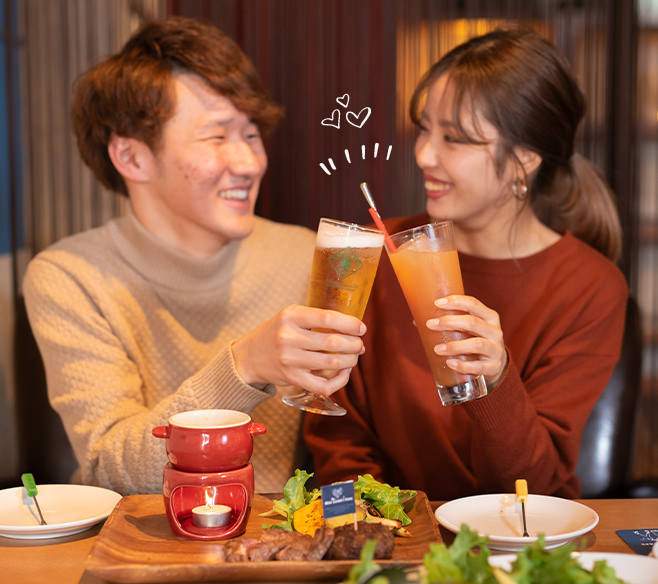
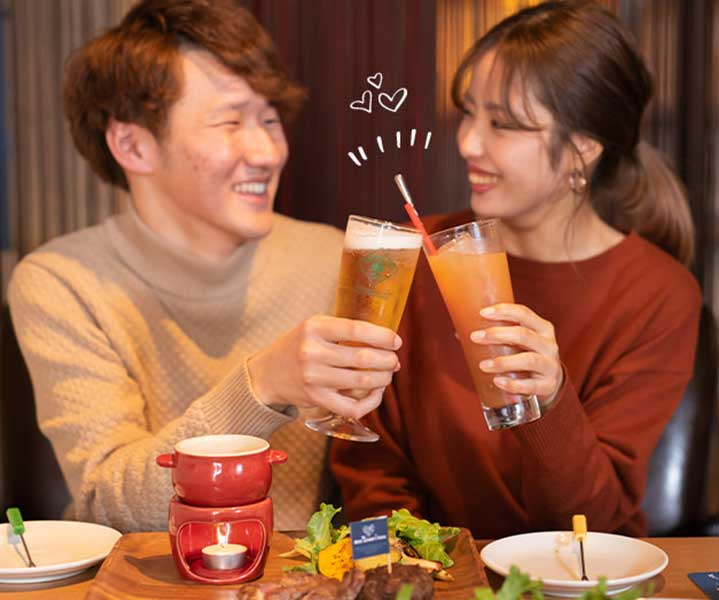
0107_3

diff --git a/project_minilove/style.css b/project_minilove/style.css
@@ -223,22 +223,24 @@ a.header_logo img{
 	z-index: 2000;
 	transform: translate(-50%,-50%);
 }
+#body_wrap #wrap_header #mainvisual #slidecow::after{
+	background: url("images/hikari.png") no-repeat center center;
+	content: "";
+	width: 700px;
+	height: 503px;
+	position: absolute;
+	top: 0;
+	left: 0;
+	z-index: 2000;
+	animation: inout  3s; 
+	animation-iteration-count: infinite;
+	margin: auto;
+	
+}
 #body_wrap #wrap_header #mainvisual #slidecow img{
-	width: 750px;
+	width: 100%;
 	height: auto;
 }
-#body_wrap #wrap_header #mainvisual .hikari {
-    position: absolute;
-    top: 137px;
-    left: 460px;
-    z-index: 1999;
-}
-#body_wrap #wrap_header #mainvisual .hikari { 
-animation: inout 3s; 
-animation-iteration-count: infinite;
-margin: auto;
-	
-} 
 @keyframes inout { 
 0%   { transform: scale(0, 0); } 
 25%   { transform: scale(1.1, 1.1); } 
@@ -513,11 +515,12 @@ margin: auto;
 	width: 100%;
 	padding: 0 0 0 80px;
 }
-#body_wrap #niku_course .niku_course_wrap{
-	width: 100%;
-	height: auto;
-	margin: 0;
-	padding: 0
+#body_wrap #niku_course .niku_course_wrap {
+    width: 100%;
+    height: 600px;
+    margin: 0;
+    padding: 0;
+    overflow: hidden;
 }
 #body_wrap #niku_course .niku_course_wrap:after{
 	display: block;
@@ -562,7 +565,7 @@ margin: auto;
 	position: absolute;
 	bottom: -100px;
 	left: 0;
-background: url("images/home-menu_01_kids.png")no-repeat 0 bottom;
+	background: url("images/home-menu_01_kids.png")no-repeat 0 bottom;
 	background-size: cover;
 	width: 553px;
 	height: 276px;
@@ -584,12 +587,12 @@ background: url("images/home-menu_01_kids.png")no-repeat 0 bottom;
 	padding: 50px;
 }
 .block_hidden img{
-    width: auto;
-    height: 100%;
+    width: 100%;
+	display: block;
 }
 .block_visible img{
-	width: auto;
-    height: 100%;
+	display: block;
+	width: 100%;
 }
 .txtred{
 	color: #c85c4a;
@@ -1053,8 +1056,8 @@ ul.lunch_list li{
 	padding-bottom: 0;
 }
 #body_wrap #wrap_footer ul li img{
+	display: block;
 	width: 100%;
-	height: auto;
 }
 /**************************************footer_button****************************************/
 #body_wrap #wrap_footer #footer_button{

diff --git a/minilove_index.html b/minilove_index.html
@@ -45,10 +45,7 @@
 			</div>
 		<div id="mainvisual">
 			<div id="slidecow">
-				<img src="project_minilove/images/slidecow.png" alt="" width="948" height="624">
-			</div>
-			<div class="hikari">
-				<img src="project_minilove/images/hikari.png" alt="" width="500" height="500">
+				<img src="project_minilove/images/slidecow.png" alt="" width="700" height="503">
 			</div>
 			<div id="slide_show">
 				<ul class="slider slider1">
@@ -154,12 +151,12 @@
 						<div id="bottom_BG1"></div>
 					</div>
 					<div class="block_hidden">
-						<img src="project_minilove/images/home-menu_02.jpg" alt="" width="660" height="584">
+						<img src="project_minilove/images/home-menu_02.jpg" alt="" width="719" height="600">
 					</div>
 				</div>
 				<div class="right niku_course_wrap">
 					<div class="block_visible">
-						<img src="project_minilove/images/home-menu_03.jpg" alt="" width="660" height="584">
+						<img src="project_minilove/images/home-menu_03.jpg" alt="" width="719" height="600">
 					</div>
 					<div class="block_hidden bottom_BG2">
 						<h2>
@@ -193,11 +190,11 @@
 						</ul>
 						<div id="bottom_BG3"></div>
 					</div>
-					<div class="block_hidden"><img src="project_minilove/images/home-menu_04.jpg" alt="" width="660" height="584"></div>
+					<div class="block_hidden"><img src="project_minilove/images/home-menu_04.jpg" alt="" width="719" height="600"></div>
 				</div>
 				<div class="right niku_course_wrap">
 					<div class="block_visible">
-						<img src="project_minilove/images/home-menu_01.jpg" alt="" width="660" height="584">
+						<img src="project_minilove/images/home-menu_01.jpg" alt="" width="719" height="600">
 					</div>
 					<div class="block_hidden bottom_BG4">
 						<h2>
